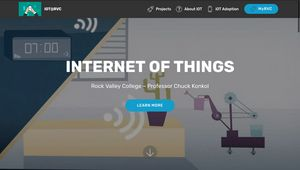
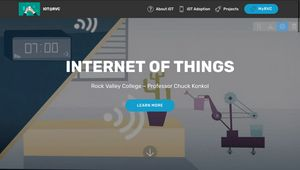
Add files via upload

Changed region(s): [[0.48, 0.0294, 0.81, 0.0882], [0.06, 0.0, 0.21, 0.1176], [0.9, 0.1176, 0.99, 0.2059]]

diff --git a/index.html b/index.html
@@ -53,19 +53,18 @@
                     <a class="nav-link link text-white display-4" href="https://mobirise.com">
                         </a>
                 </li><li class="nav-item"><a class="nav-link link text-white display-4" href="https://mobirise.com">
-                        </a></li><li class="nav-item"><a class="nav-link link text-white display-4" href="index.html#features15-d"><span class="mbri-rocket mbr-iconfont mbr-iconfont-btn"></span>
-                        Projects</a></li>
-                <li class="nav-item">
+                        </a></li><li class="nav-item">
                     <a class="nav-link link text-white display-4" href="index.html#content5-h"><span class="mbri-question mbr-iconfont mbr-iconfont-btn"></span>
                         
                         About iOT</a>
-                </li><li class="nav-item"><a class="nav-link link text-white display-4" href="index.html#progress-bars3-q"><span class="mbri-mobile2 mbr-iconfont mbr-iconfont-btn"></span>iOT Adoption</a></li></ul>
+                </li><li class="nav-item"><a class="nav-link link text-white display-4" href="index.html#progress-bars3-q"><span class="mbri-mobile2 mbr-iconfont mbr-iconfont-btn"></span>iOT Adoption</a></li><li class="nav-item"><a class="nav-link link text-white display-4" href="index.html#features15-d"><span class="mbri-rocket mbr-iconfont mbr-iconfont-btn"></span>
+                        Projects</a></li></ul>
             <div class="navbar-buttons mbr-section-btn"><a class="btn btn-sm btn-primary display-4" href="http://myrvc.org"><span class="mbrib-rocket mbr-iconfont mbr-iconfont-btn" style="color: rgb(15, 118, 153);"></span>MyRVC</a></div>
         </div>
     </nav>
 </section>
 
-<section class="engine"><a href="https://mobirise.info/b">how to create your own site for free</a></section><section class="header6 cid-r65kkKM8KO mbr-fullscreen" data-bg-video="https://www.youtube.com/watch?v=p_R5ZVWMhzM" id="header6-5">
+<section class="engine"><a href="https://mobirise.info/t">amp template</a></section><section class="header6 cid-r65kkKM8KO mbr-fullscreen" data-bg-video="https://www.youtube.com/watch?v=p_R5ZVWMhzM" id="header6-5">
 
     
 
@@ -94,7 +93,8 @@
 
     
 
-    
+    <div class="mbr-overlay" style="opacity: 0.5; background-color: rgb(35, 35, 35);">
+    </div>
 
     <div class="container">
         <div class="media-container-row">
@@ -123,50 +123,6 @@
         </div>
     </div>
 </section>
-
-<section class="features15 cid-r65nvCUhUW" id="features15-d">
-
-    
-
-    
-    <div class="container">
-        <h2 class="mbr-section-title pb-3 align-center mbr-fonts-style display-2">
-            Projects</h2>
-        <h3 class="mbr-section-subtitle display-5 align-center mbr-fonts-style">
-            Internet of Things Projects</h3>
-
-        <div class="media-container-row container pt-5 mt-2">
-
-            <div class="col-12 col-md-6 mb-4">
-                <div class="card flip-card p-5 align-center">
-                    <div class="card-front card_cont">
-                        <img src="assets/images/screen-shot-2018-10-10-at-10.36.06-pm-367x210.png" alt="Mobirise" title="">
-                    </div>
-                    <div class="card_back card_cont">
-                        <h4 class="card-title display-5 py-2 mbr-fonts-style"><strong>Project 1</strong></h4>
-                        <p class="mbr-text mbr-fonts-style display-7">Motion detection = Send Notification<a href="https://community.particle.io/t/webhooks-super-simple-motion-activated-push-notifications/10322?source_topic_id=15363" class="text-danger"><br></a><br><a href="https://community.particle.io/t/webhooks-super-simple-motion-activated-push-notifications/10322?source_topic_id=15363" class="text-white">Click Here</a></p>
-                    </div>
-                </div>
-            </div>
-
-            <div class="col-12 col-md-6 mb-4">
-                
-                <div class="card flip-card p-5 align-center">
-                    <div class="card-front card_cont">
-                        <img src="assets/images/cover-dl0ac5p2yv.gif" alt="Mobirise" title="">
-                    </div>
-                    <div class="card_back card_cont">
-                        <h4 class="card-title py-2 mbr-fonts-style display-5">Project 2</h4>
-                        <p class="mbr-text mbr-fonts-style display-7">Control a Servo Remotely<br>&nbsp;with Web Soc App!<br><br><a href="https://create.arduino.cc/projecthub/phpoc_man/arduino-dynamic-web-control-8da805?ref=platform&ref_id=424_popular__beginner_&offset=8" target="_blank" class="text-white">Click Here</a></p>
-                    </div>
-                </div>
-            </div>
-            
-            
-
-            
-        </div>
-</div></section>
 
 <section class="progress-bars3 cid-r68Cznxq4Z" data-bg-video="http://www.youtube.com/watch?v=uNCr7NdOJgw" id="progress-bars3-q">
  
@@ -224,6 +180,71 @@
         </div>
 </div></section>
 
+<section class="features15 cid-r65nvCUhUW mbr-parallax-background" id="features15-d">
+
+    
+
+    
+    <div class="container">
+        <h2 class="mbr-section-title pb-3 align-center mbr-fonts-style display-2"><strong>
+            Projects</strong></h2>
+        <h3 class="mbr-section-subtitle display-5 align-center mbr-fonts-style"><strong>
+            Internet of Things Projects</strong></h3>
+
+        <div class="media-container-row container pt-5 mt-2">
+
+            <div class="col-12 col-md-6 mb-4 col-lg-3">
+                <div class="card flip-card p-5 align-center">
+                    <div class="card-front card_cont">
+                        <img src="assets/images/screen-shot-2018-10-11-at-8.46.24-am-218x270.png" alt="Mobirise" title="">
+                    </div>
+                    <div class="card_back card_cont">
+                        <h4 class="card-title display-5 py-2 mbr-fonts-style"><strong>iOT: Project 1</strong></h4>
+                        <p class="mbr-text mbr-fonts-style display-7">Motion detection = Send Notification<a href="https://community.particle.io/t/webhooks-super-simple-motion-activated-push-notifications/10322?source_topic_id=15363" class="text-danger"><br></a><br></p>
+                    </div>
+                </div>
+            </div>
+
+            <div class="col-12 col-md-6 mb-4 col-lg-3">
+                
+                <div class="card flip-card p-5 align-center">
+                    <div class="card-front card_cont">
+                        <img src="assets/images/screen-shot-2018-10-11-at-8.49.24-am-258x357.png" alt="Mobirise" title="">
+                    </div>
+                    <div class="card_back card_cont">
+                        <h4 class="card-title py-2 mbr-fonts-style display-5">iOT: Project 2</h4>
+                        <p class="mbr-text mbr-fonts-style display-7">Control a Servo Remotely<br>&nbsp;with Web Soc App!<br><br></p>
+                    </div>
+                </div>
+            </div>
+            
+            <div class="col-12 col-md-6 mb-4 col-lg-3">
+                <div class="card flip-card p-5 align-center">
+                    <div class="card-front card_cont">
+                        <img src="assets/images/screen-shot-2018-10-11-at-8.53.17-am-97x125.png" alt="Mobirise" title="">
+                    </div>
+                    <div class="card_back card_cont">
+                        <h4 class="card-title py-2 mbr-fonts-style display-5">iOT: Project 3</h4>
+                        <p class="mbr-text mbr-fonts-style display-7">Control Lights Remotely</p><p></p><p></p>
+                    </div>
+                </div> 
+            </div>
+
+            <div class="col-12 col-md-6 mb-4 col-lg-3">
+                <div class="card flip-card p-5 align-center">
+                    <div class="card-front card_cont">
+                        <img src="assets/images/screen-shot-2018-10-11-at-8.54.10-am-123x148.png" alt="Mobirise" title="">
+                    </div>
+                    <div class="card_back card_cont">
+                        <h4 class="card-title py-2 mbr-fonts-style display-5">iOT: Project 4</h4>
+                        <p class="mbr-text mbr-fonts-style display-7">
+                            Temperature Reading from Anywhere!</p>
+                    </div>
+                </div> 
+            </div>
+        </div>
+</div></section>
+
 <section class="cid-qTkAaeaxX5" id="footer1-2">
 
     
@@ -235,7 +256,7 @@
             <div class="col-12 col-md-3">
                 <div class="media-wrap">
                     <a href="https://mobirise.com/">
-                        <img src="assets/images/logo2.png" alt="Mobirise">
+                        <img src="assets/images/mbr-192x120.jpg" alt="Mobirise" title="">
                     </a>
                 </div>
             </div>
@@ -303,8 +324,8 @@
   <script src="assets/vimeoplayer/jquery.mb.vimeo_player.js"></script>
   <script src="assets/touchswipe/jquery.touch-swipe.min.js"></script>
   <script src="assets/parallax/jarallax.min.js"></script>
-  <script src="assets/mbr-flip-card/mbr-flip-card.js"></script>
   <script src="assets/as-pie-progress/jquery-as-pie-progress.min.js"></script>
+  <script src="assets/mbr-flip-card/mbr-flip-card.js"></script>
   <script src="assets/smoothscroll/smooth-scroll.js"></script>
   <script src="assets/dropdown/js/script.min.js"></script>
   <script src="assets/theme/js/script.js"></script>

diff --git a/assets/mobirise/css/mbr-additional.css b/assets/mobirise/css/mbr-additional.css
@@ -1760,7 +1760,7 @@ body {
 .cid-r65qRMv4eI {
   padding-top: 60px;
   padding-bottom: 60px;
-  background-image: url("../../../assets/images/jumbotron.jpg");
+  background-image: url("../../../assets/images/mbr-1-1920x1280.jpg");
 }
 .cid-r65qV57sbY {
   padding-top: 60px;
@@ -1798,13 +1798,46 @@ body {
   height: 40px;
   border-radius: 50%;
 }
+.cid-r68Cznxq4Z {
+  padding-top: 90px;
+  padding-bottom: 90px;
+}
+.cid-r68Cznxq4Z h3 {
+  text-align: center;
+  font-weight: 300;
+}
+.cid-r68Cznxq4Z .wrap {
+  width: 150px;
+  height: 150px;
+  margin: 0 auto;
+}
+.cid-r68Cznxq4Z .mbr-section-subtitle {
+  color: #767676;
+}
+.cid-r68Cznxq4Z .card {
+  -webkit-flex-basis: 100%;
+  flex-basis: 100%;
+  word-wrap: break-word;
+}
+.cid-r68Cznxq4Z ellipse {
+  stroke: rgba(206, 206, 206, 0.4);
+}
+.cid-r68Cznxq4Z path {
+  stroke: #149dcc;
+}
+@media (max-width: 991px) and (min-width: 768px) {
+  .cid-r68Cznxq4Z .card {
+    -webkit-flex-basis: 33%;
+    flex-basis: 33%;
+  }
+}
 .cid-r65nvCUhUW {
   padding-top: 75px;
   padding-bottom: 90px;
-  background-color: #f9f9f9;
+  background-image: url("../../../assets/images/mbr-1920x1152.jpg");
 }
 .cid-r65nvCUhUW .mbr-section-subtitle {
-  color: #767676;
+  color: #232323;
   font-weight: 300;
 }
 .cid-r65nvCUhUW .media-container-row {
@@ -1897,38 +1930,14 @@ body {
 .cid-r65nvCUhUW H4 {
   color: #073b4c;
 }
-.cid-r68Cznxq4Z {
-  padding-top: 90px;
-  padding-bottom: 90px;
+.cid-r65nvCUhUW .mbr-section-title {
+  color: #ffffff;
 }
-.cid-r68Cznxq4Z h3 {
-  text-align: center;
-  font-weight: 300;
+.cid-r65nvCUhUW .mbr-section-title B {
+  color: #ffffff;
 }
-.cid-r68Cznxq4Z .wrap {
-  width: 150px;
-  height: 150px;
-  margin: 0 auto;
-}
-.cid-r68Cznxq4Z .mbr-section-subtitle {
-  color: #767676;
-}
-.cid-r68Cznxq4Z .card {
-  -webkit-flex-basis: 100%;
-  flex-basis: 100%;
-  word-wrap: break-word;
-}
-.cid-r68Cznxq4Z ellipse {
-  stroke: rgba(206, 206, 206, 0.4);
-}
-.cid-r68Cznxq4Z path {
-  stroke: #149dcc;
-}
-@media (max-width: 991px) and (min-width: 768px) {
-  .cid-r68Cznxq4Z .card {
-    -webkit-flex-basis: 33%;
-    flex-basis: 33%;
-  }
+.cid-r65nvCUhUW .mbr-section-subtitle B {
+  color: #ffffff;
 }
 .cid-qTkAaeaxX5 {
   padding-top: 60px;

diff --git a/page1.html b/page1.html
@@ -52,19 +52,18 @@
                     <a class="nav-link link text-white display-4" href="https://mobirise.com">
                         </a>
                 </li><li class="nav-item"><a class="nav-link link text-white display-4" href="https://mobirise.com">
-                        </a></li><li class="nav-item"><a class="nav-link link text-white display-4" href="index.html#features15-d"><span class="mbri-rocket mbr-iconfont mbr-iconfont-btn"></span>
-                        Projects</a></li>
-                <li class="nav-item">
+                        </a></li><li class="nav-item">
                     <a class="nav-link link text-white display-4" href="index.html#content5-h"><span class="mbri-question mbr-iconfont mbr-iconfont-btn"></span>
                         
                         About iOT</a>
-                </li><li class="nav-item"><a class="nav-link link text-white display-4" href="index.html#progress-bars3-q"><span class="mbri-mobile2 mbr-iconfont mbr-iconfont-btn"></span>iOT Adoption</a></li></ul>
+                </li><li class="nav-item"><a class="nav-link link text-white display-4" href="index.html#progress-bars3-q"><span class="mbri-mobile2 mbr-iconfont mbr-iconfont-btn"></span>iOT Adoption</a></li><li class="nav-item"><a class="nav-link link text-white display-4" href="index.html#features15-d"><span class="mbri-rocket mbr-iconfont mbr-iconfont-btn"></span>
+                        Projects</a></li></ul>
             <div class="navbar-buttons mbr-section-btn"><a class="btn btn-sm btn-primary display-4" href="http://myrvc.org"><span class="mbrib-rocket mbr-iconfont mbr-iconfont-btn" style="color: rgb(15, 118, 153);"></span>MyRVC</a></div>
         </div>
     </nav>
 </section>
 
-<section class="engine"><a href="https://mobirise.info/h">how to create a web page for free</a></section><section class="header4 cid-r65uhT6LII mbr-parallax-background" id="header4-k">
+<section class="engine"><a href="https://mobirise.info/e">make your own website</a></section><section class="header4 cid-r65uhT6LII mbr-parallax-background" id="header4-k">
 
     
 
